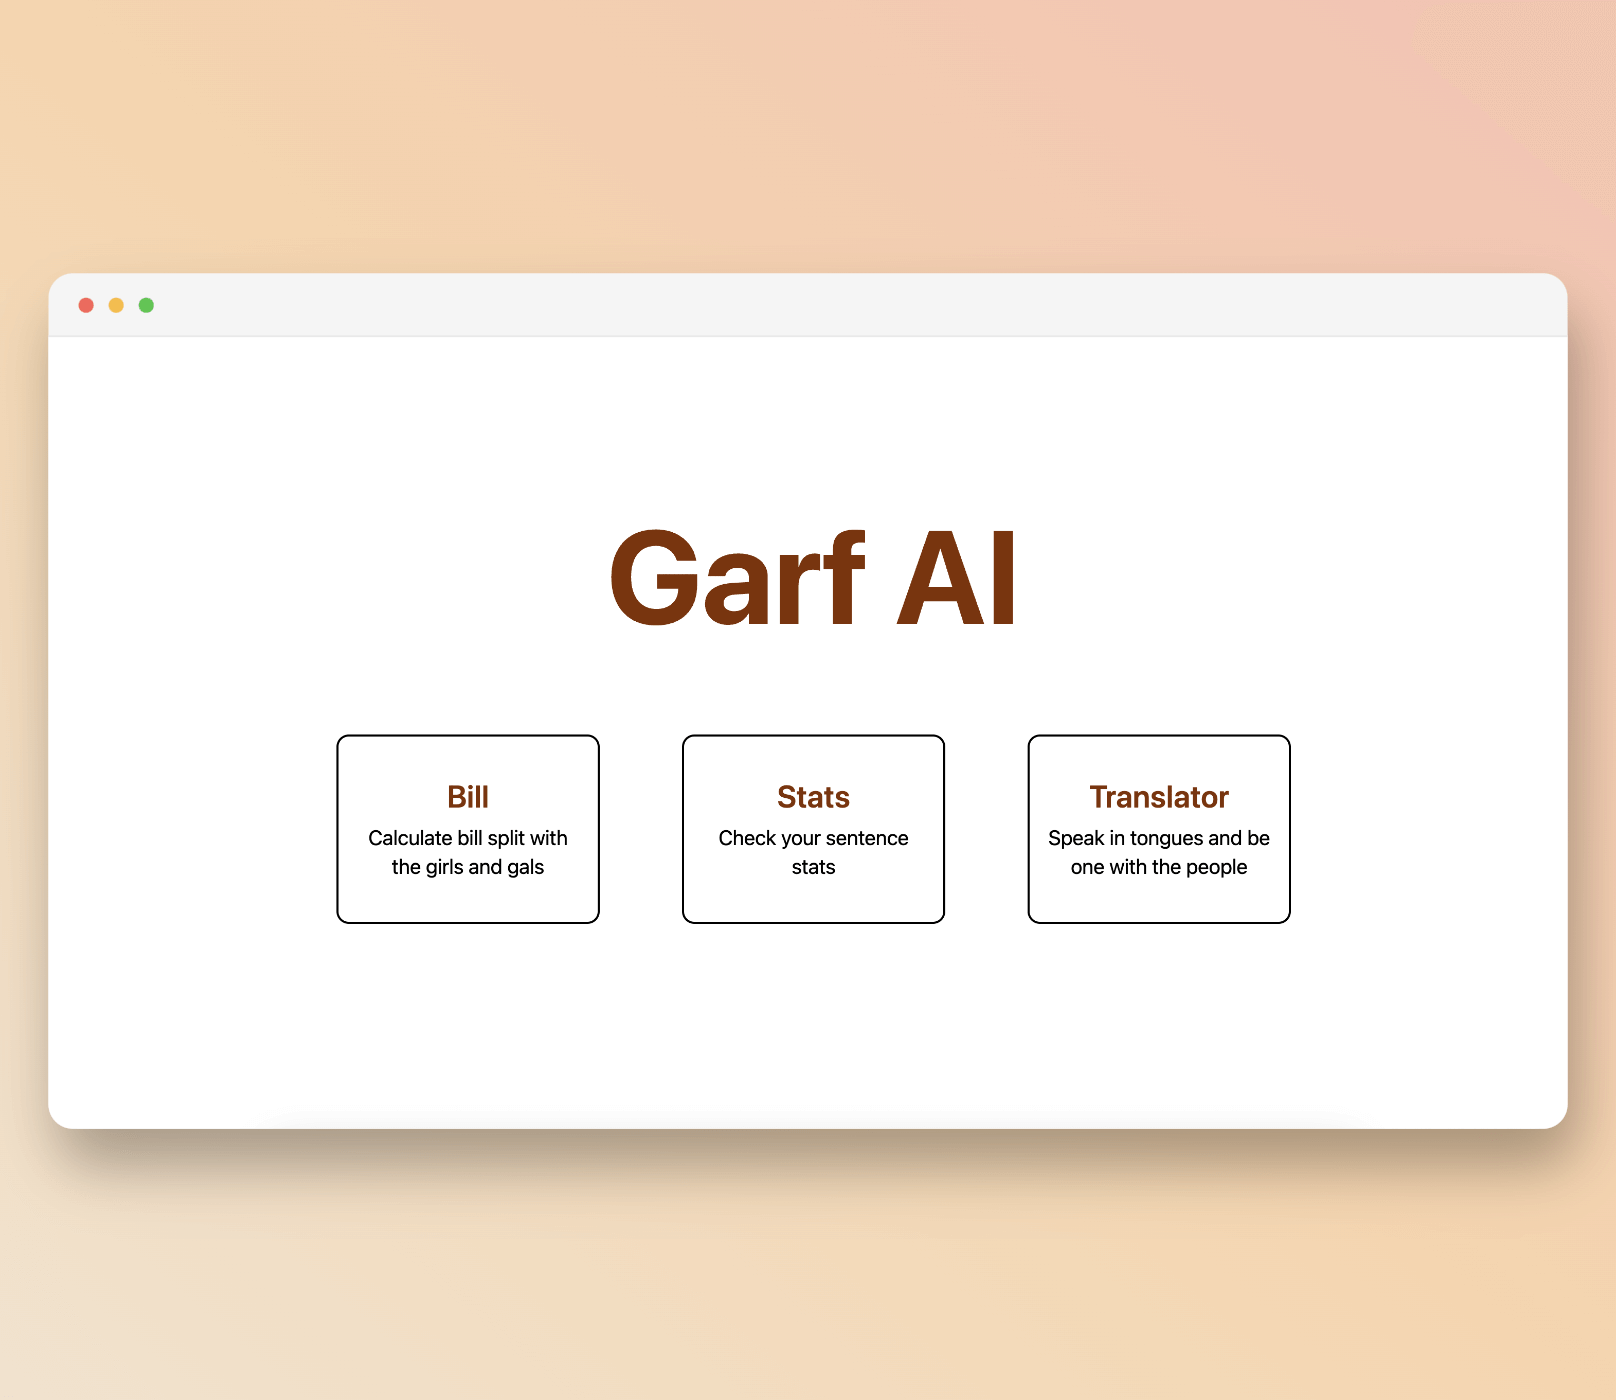
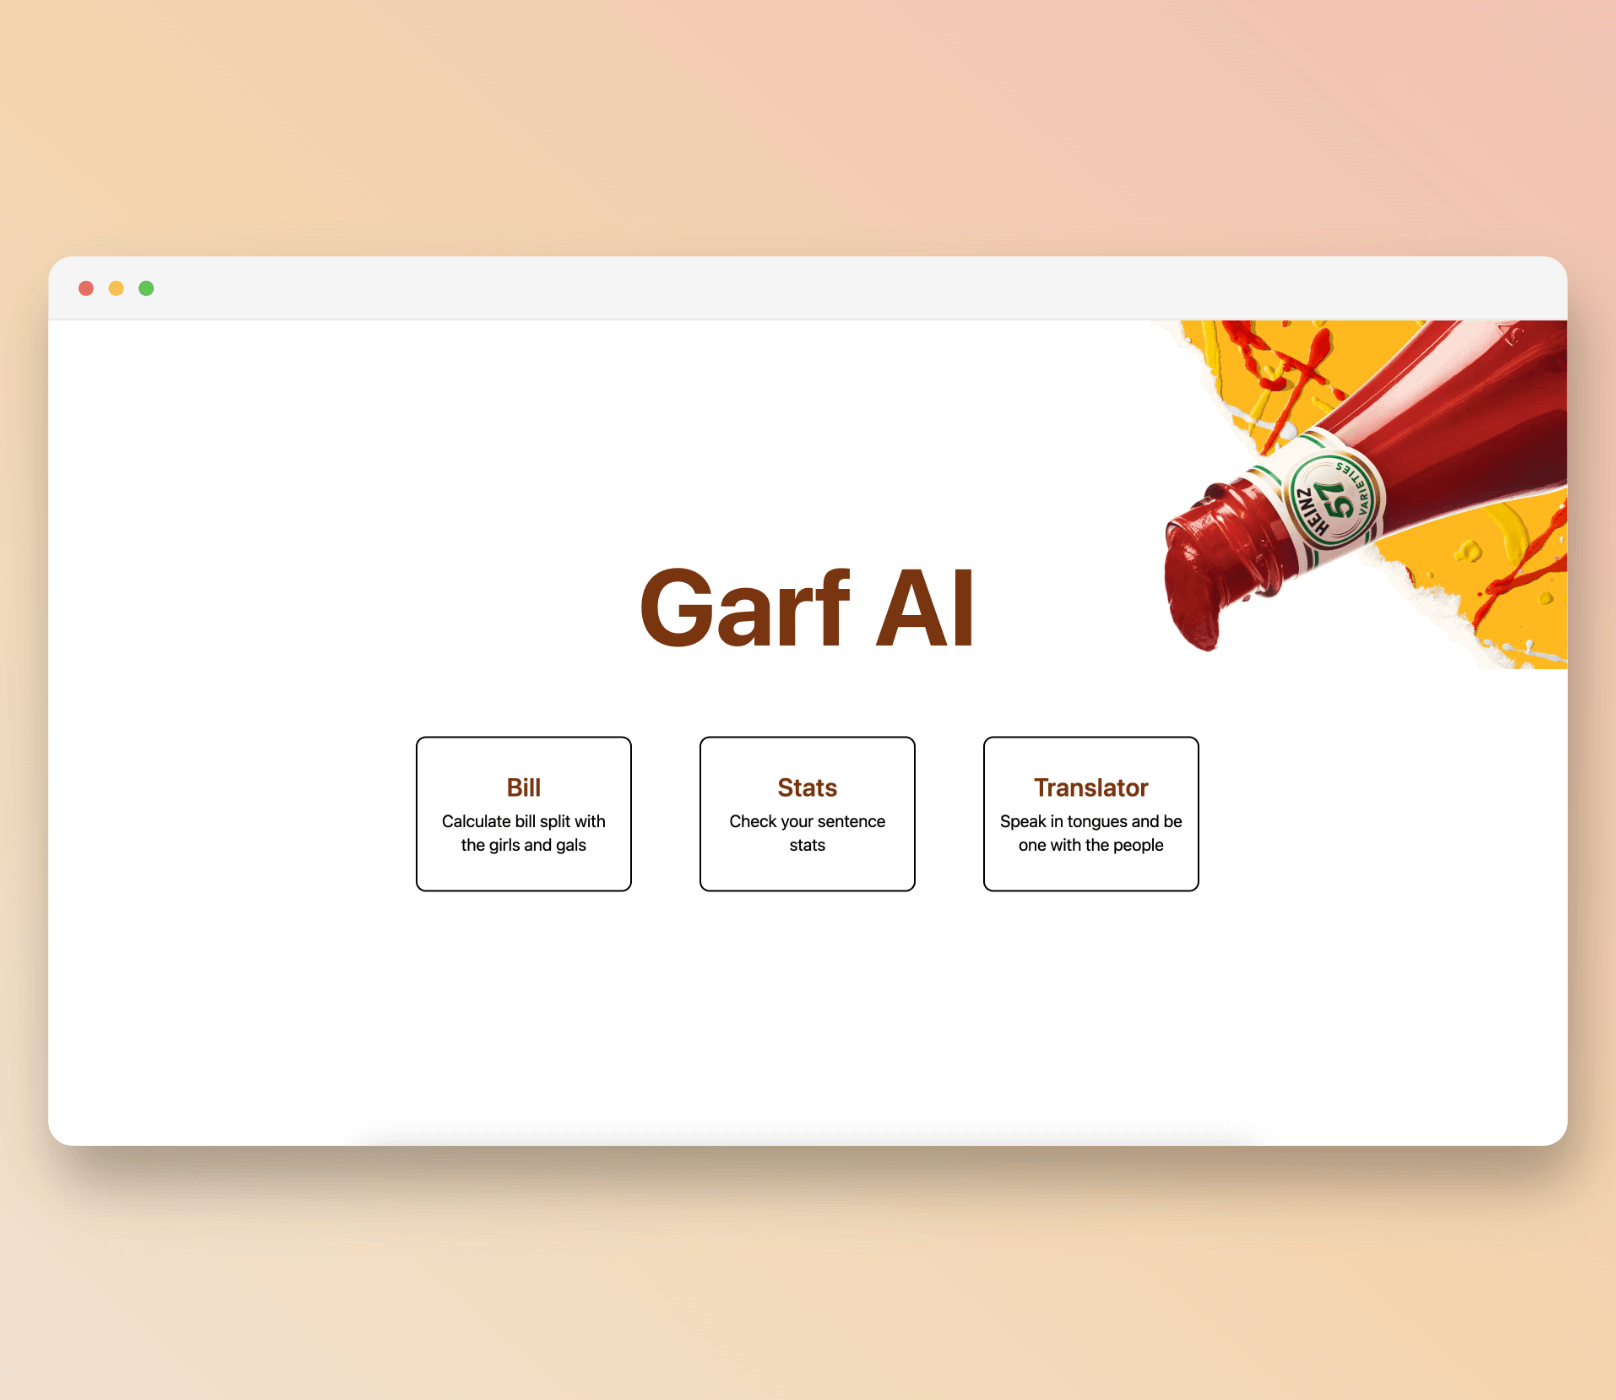
replace project images

diff --git a/components/Hello.jsx b/components/Hello.jsx
@@ -132,9 +132,9 @@ const Hello = () => {
               />
             </div>
           </div>
-          <Link href={"tel:9092145009"} className="underline">
+          {/* <Link href={"tel:9092145009"} className="underline">
             {"+1 (909) 214-5009"}
-          </Link>
+          </Link> */}
         </div>
         <div className="flex gap-x-5 text-3xl">
           <Link
